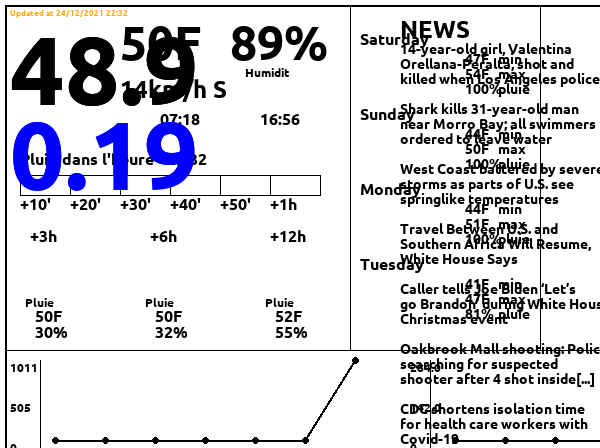
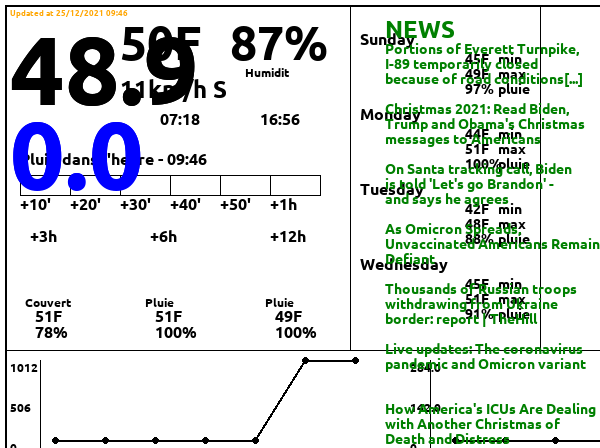
only 3 news stories

diff --git a/weather_station.py b/weather_station.py
@@ -228,7 +228,7 @@ def main():
     news_w = 385
     news_selected = news.selected_title()
     display.draw_black.text((news_w, 15), "NEWS", fill='green', font=font24)
-    for i in range(len(news_selected)):
+    for i in range(len(news_selected[:3])):
         if len(news_selected) == 1:
             display.draw_black.text((news_w, 40), news_selected[0], fill='green', font=font14)
         elif len(news_selected[i]) <= 3 :
